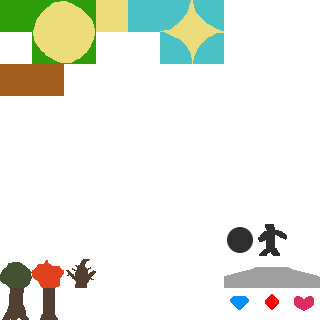
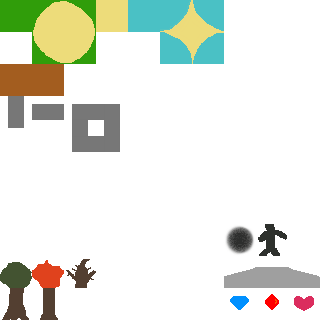
Made the shadow sexier. Updated the tilemap and game map.  Brought over the camera from topdown

Changed region(s): [[0.0, 0.2812, 0.375, 0.5], [0.6875, 0.6875, 0.8125, 0.8125]]

diff --git a/js/Game.js b/js/Game.js
@@ -1,5 +1,9 @@
 var TopDownGame = TopDownGame || {},
 	debug = false,
+	h = 640,
+	w = 640,
+	cameraX = 0,
+	cameraY = 0,
 	leftKey,
 	rightKey,
 	upKey,
@@ -39,14 +43,12 @@ TopDownGame.Game.prototype = {
 		this.shadow = this.game.add.sprite(shadowLocation[0].x, shadowLocation[0].y, 'shadow');
 		this.game.physics.arcade.enable(this.shadow);
 
-		//setting the camera to follow our player
-		this.game.camera.follow(this.player);
-
 		//allowing character to move
 		this.cursors = this.game.input.keyboard.createCursorKeys();
 
 		//lives counter
 		lives = this.game.add.group();
+		lives.fixedToCamera = true;
 		lives.create(32, 6, 'life');
 		lives.create(64, 6, 'life');
 		lives.create(96, 6, 'life');
@@ -87,6 +89,42 @@ TopDownGame.Game.prototype = {
 			sprite[key] = element.properties[key];
 		});
 	},
+	moveCamera: function() {
+		// @todo: fix camera movement.  maybe stop player movement while camera moving?
+
+		// Don't allow tweens to build up if you go back and forth really fast
+		if (this.tween)
+			return;
+
+		this.tween = true;
+		var toMove = false,
+			speed = 600;
+
+		if (this.player.y + 16 > this.game.camera.y + h) {
+			cameraY += 1;
+			toMove = true;
+		}
+		else if (this.player.y - 16 < this.game.camera.y) {
+			console.log(this.player.y, this.game.camera.y);
+			cameraY -= 1;
+			toMove = true;
+		}
+		else if (this.player.x > this.game.camera.x + w) {
+			cameraX += 1;
+			toMove = true;
+		}
+		else if (this.player.x < this.game.camera.x) {
+			cameraX -= 1;
+			toMove = true;
+		}
+		if (toMove) {
+			var t = this.game.add.tween(this.game.camera).to({x: cameraX * w, y: cameraY * h}, speed);
+			t.start();
+			t.onComplete.add(function(){this.tween = false;}, this);
+		} else {
+			this.tween = false;
+		}
+	},
 	collect: function(player, collectable) {
 		collectable.destroy();
 	},
@@ -95,13 +133,13 @@ TopDownGame.Game.prototype = {
 		var deltaY = Math.abs(player.position.y - shadow.position.y);
 
 		if(deltaX < 160 && deltaY < 160) {
-			// console.log('They\'re close!', shadow.texture);
 			shadow.loadTexture('enemy');
+			shadow.alpha = 1;
 			this.game.physics.arcade.moveToObject(shadow, player, 100);
 		} else {
-			// console.log('They\'re far!', shadow.texture);
 			shadow.loadTexture('shadow');
-			shadow.body.velocity.setTo(0,0);
+			shadow.alpha = .8;
+			this.game.physics.arcade.moveToObject(shadow, player, 50);
 		}
 	},
 	debugInformation: function() {
@@ -124,7 +162,8 @@ TopDownGame.Game.prototype = {
 	loseLife: function(player, shadow) {
 		this.player.reset(64, 64);
 		lives.removeChild(lives.children[lives.total - 1]);
-		// this.shadow.reset(shadowLocation[0].x, shadowLocation[0].y);
+		cameraX = 0; cameraY = 0;
+		this.game.camera.focusOnXY(0,0);
 	},
 	update: function() {
 		//player movement
@@ -132,16 +171,16 @@ TopDownGame.Game.prototype = {
 		this.player.body.velocity.y = 0;
 
 		if(this.cursors.up.isDown || upKey.isDown) {
-			this.player.body.velocity.y -= 130;
+			this.player.body.velocity.y -= 300;
 		}
 		else if(this.cursors.down.isDown || downKey.isDown) {
-			this.player.body.velocity.y += 130;
+			this.player.body.velocity.y += 300;
 		}
 		if(this.cursors.left.isDown || leftKey.isDown) {
-			this.player.body.velocity.x -= 130;
+			this.player.body.velocity.x -= 300;
 		}
 		else if(this.cursors.right.isDown || rightKey.isDown) {
-			this.player.body.velocity.x += 130;
+			this.player.body.velocity.x += 300;
 		}
 
 		if(pauseKey.isDown) {
@@ -154,10 +193,12 @@ TopDownGame.Game.prototype = {
 
 		// @todo: right now, it makes a new line of text each frame, that's really bad
 		// this.debugInformation();
+		//
+		// Taking care of the camera
+		this.moveCamera();
 
 		//Collision
 		this.game.physics.arcade.collide(this.player, this.collisionLayer);
-		this.game.physics.arcade.collide(this.shadow, this.collisionLayer);
 		this.game.physics.arcade.overlap(this.player, this.shadow, this.loseLife, null, this);
 		this.game.physics.arcade.overlap(this.player, this.gems, this.collect, null, this);
 
